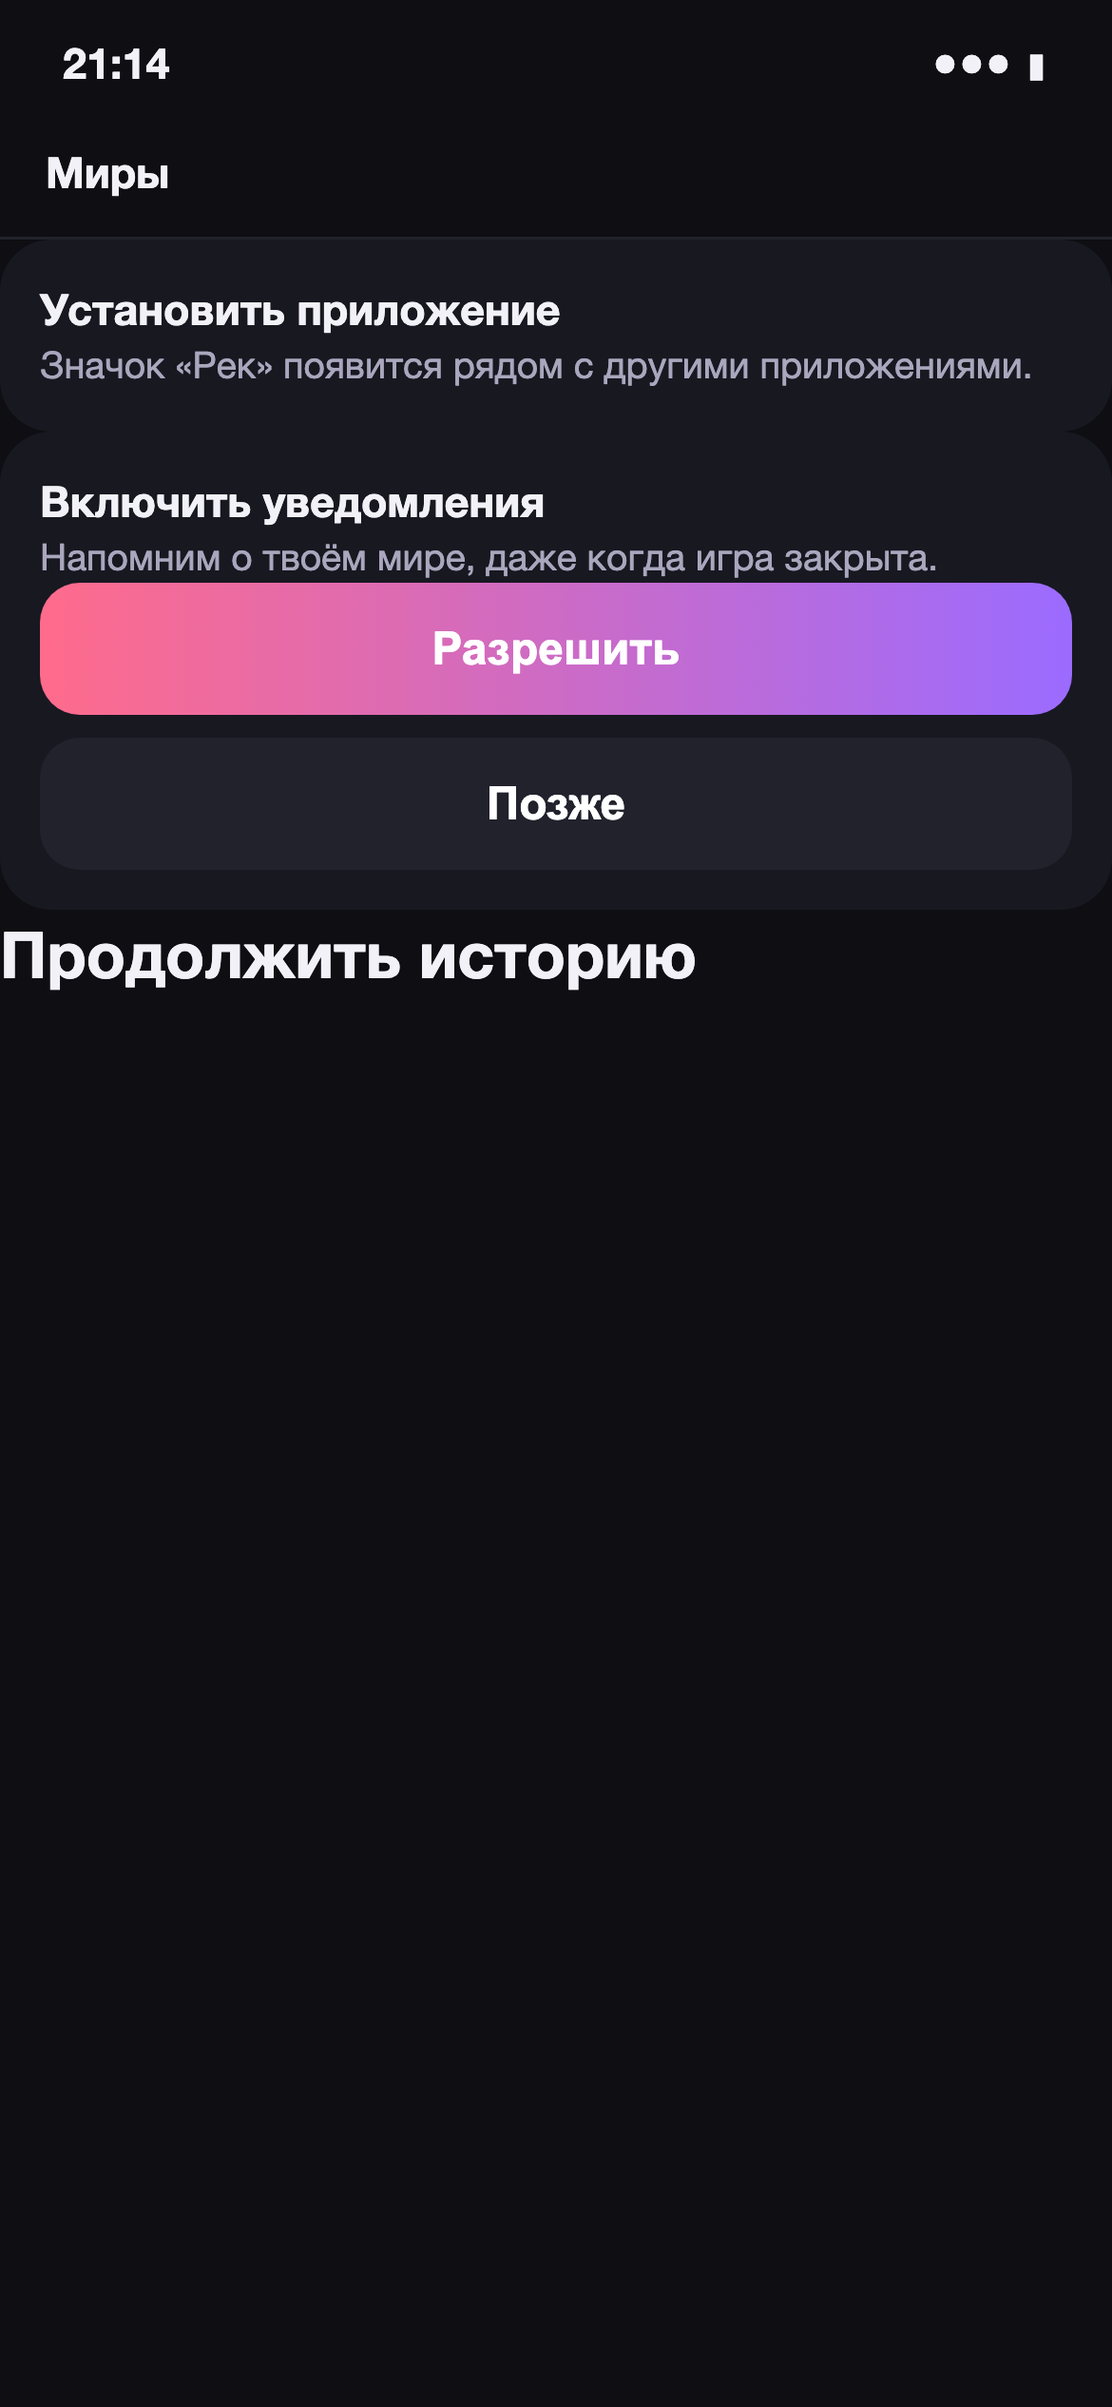
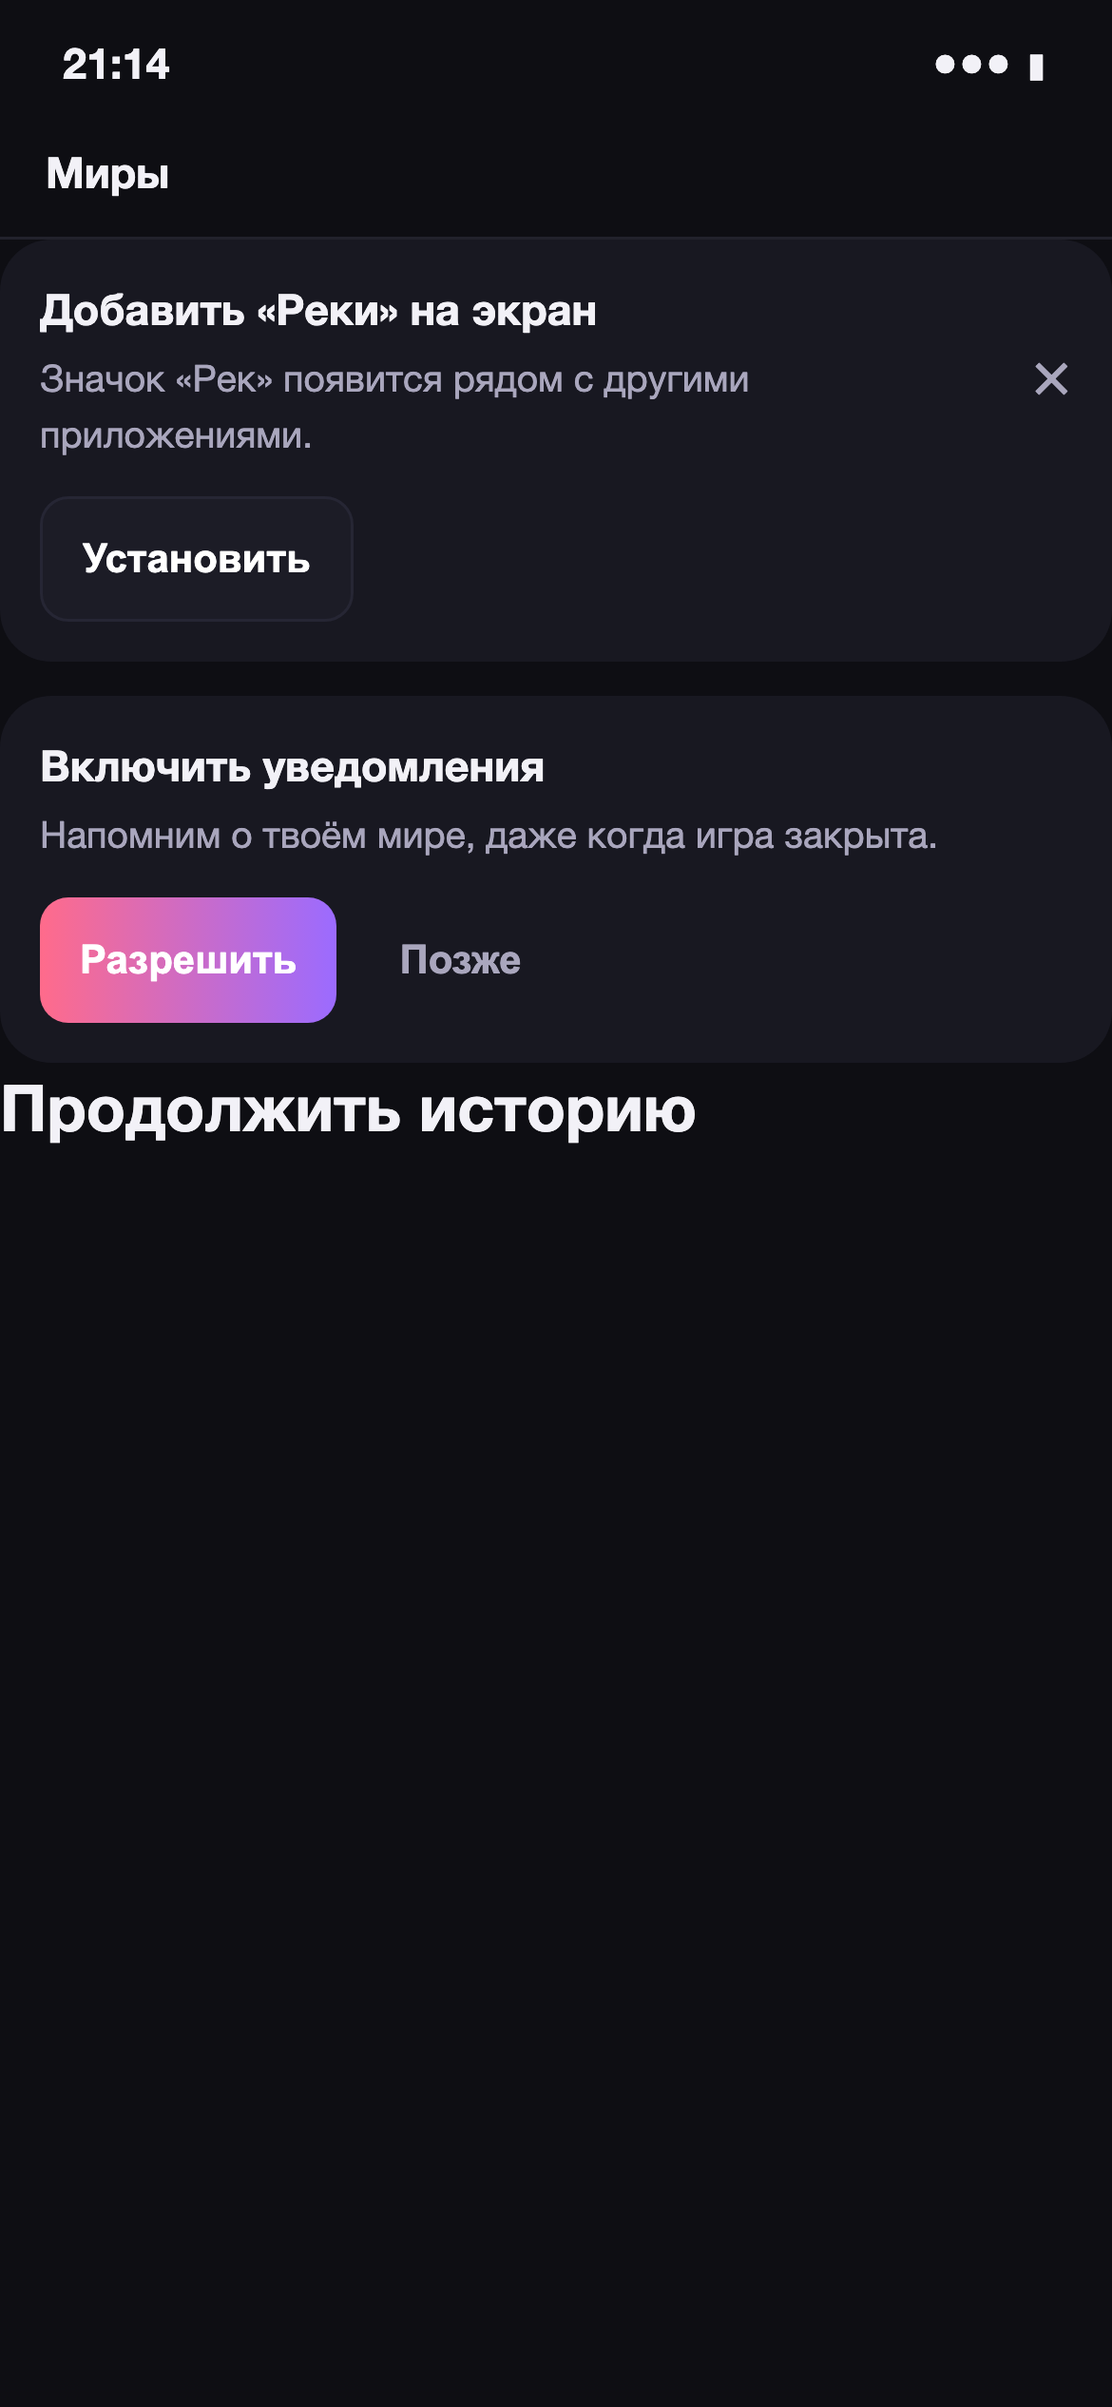
fix(frontend): compact browser offers and Telegram copy #291 (#296)
* fix(frontend): compact install and notification actions #291

* fix(frontend): shorten Telegram notification copy #291

---------

diff --git a/frontend/src/app/install/InstallApp.tsx b/frontend/src/app/install/InstallApp.tsx
@@ -53,7 +53,7 @@ export function InstallApp({entry}:{entry:'settings'|'banner'}){
  if(install.installed&&!preview)return null
  if(entry==='banner'&&install.dismissed&&!open&&!preview)return null
  return <>
-  {entry==='settings'?<button type="button" className="install-settings" onClick={()=>void start()} disabled={busy}><span>Установить приложение</span><span aria-hidden="true">›</span></button>:<Card style={{marginBottom:12}}>{preview&&<p className="small muted" role="status">DEV-просмотр. {install.installed?'Обычный показ скрыт: режим приложения.':install.dismissed?'Обычный показ скрыт: предложение уже закрывали.':'Карточка доступна и без предпросмотра.'}</p>}<div className="install-banner-heading"><img src="/android-chrome-192x192.png?v=wave-2" width={36} height={36} alt=""/><strong>Добавить «Реки» на экран</strong><button type="button" aria-label="Закрыть предложение установки" onClick={dismiss} disabled={busy}>×</button></div><p className="small muted">Значок «Рек» появится рядом с другими приложениями.</p><Button disabled={busy} onClick={()=>void start()}>{busy?'Открываем установку…':'Установить приложение'}</Button></Card>}
+  {entry==='settings'?<button type="button" className="install-settings" onClick={()=>void start()} disabled={busy}><span>Установить приложение</span><span aria-hidden="true">›</span></button>:<Card style={{marginBottom:12}}><div className="browser-offer install-offer">{preview&&<p className="small muted" role="status">DEV-просмотр. {install.installed?'Обычный показ скрыт: режим приложения.':install.dismissed?'Обычный показ скрыт: предложение уже закрывали.':'Карточка доступна и без предпросмотра.'}</p>}<div className="install-banner-heading"><img src="/android-chrome-192x192.png?v=wave-2" width={32} height={32} alt=""/><div className="browser-offer-copy"><strong>Добавить «Реки» на экран</strong><p className="small muted">Значок «Рек» появится рядом с другими приложениями.</p></div><button type="button" aria-label="Закрыть предложение установки" onClick={dismiss} disabled={busy}>×</button></div><div className="browser-offer-actions"><Button secondary disabled={busy} onClick={()=>void start()}>{busy?'Открываем…':'Установить'}</Button></div></div></Card>}
   {open&&createPortal(<Sheet onClose={close}><div ref={dialog} role="dialog" aria-modal="true" aria-labelledby={titleId} className="install-dialog">
    <h2 ref={heading} id={titleId} tabIndex={-1}>Установить «Реки»</h2>
    {embedded?<><p>Открой игру {ios||android?'в браузере телефона':'в обычном браузере'}.</p>{(ios||android)&&<p>Открой меню окна и выбери «Открыть в браузере».</p>}<p className="small muted">Скопируй адрес ниже, если такого пункта нет.</p></>:ios?<><ol className="install-steps"><li><span className="install-step-symbol"><InstallSymbol kind={yandex?'menu':'share'}/></span><span>{yandex?<>В меню Яндекс Браузера выбери <strong>«Добавить ярлык на телефон»</strong>.</>:<>В {chrome?'Chrome':safari?'Safari':'браузере'} нажми <strong>«Поделиться»</strong>.</>}</span></li><li><span className="install-step-symbol"><InstallSymbol kind="add"/></span><span>Выбери <strong>{yandex?'«Добавить на экран “Домой”»':chrome?'«Добавить на главный экран»':'«На экран “Домой”»'}</strong>.</span></li><li><span className="install-step-label" aria-hidden="true">Добавить</span><span>Нажми <strong>«Добавить»</strong>.</span></li></ol>{yandex&&<p className="small muted">Ярлык будет открывать игру в Яндекс Браузере.</p>}</>:android?<><ol className="install-steps"><li><span className="install-step-symbol"><InstallSymbol kind="menu"/></span><span>Открой меню {yandex?'Яндекс Браузера':chrome?'Chrome':'браузера'}.</span></li><li><span className="install-step-symbol"><InstallSymbol kind="add"/></span><span>{yandex?<>Выбери <strong>«Добавить ярлык на рабочий стол»</strong>, затем «Добавить».</>:<>Выбери <strong>«Установить приложение»</strong> или <strong>«Добавить на главный экран»</strong>.</>}</span></li></ol>{yandex&&<p className="small muted">Ярлык будет открывать игру в Яндекс Браузере.</p>}</>:safari?<p>В меню Safari выбери «Файл» → «Добавить в Dock».</p>:<p>В меню браузера выбери «Установить приложение». В Edge этот пункт находится в разделе «Приложения».</p>}

diff --git a/frontend/src/app/push/PushNotifications.tsx b/frontend/src/app/push/PushNotifications.tsx
@@ -93,20 +93,20 @@ export function PushNotifications({playerId, entry = 'settings'}: {playerId: str
 
   if (entry === 'banner') {
     if (support !== 'supported' || !key || dismissed || permission === 'denied' || saved) return null
-    return <Card style={{marginBottom: 12}}>
+    return <Card style={{marginBottom: 12}}><div className="browser-offer">
       <strong>Включить уведомления</strong>
       <p className="small muted">Напомним о твоём мире, даже когда игра закрыта.</p>
       {error && <p role="alert" className="small">{error}</p>}
-      <Button disabled={busy} onClick={() => void connect(true)}>{busy ? 'Подключаем…' : permission === 'granted' ? 'Подключить уведомления' : 'Разрешить'}</Button>
-      <Button secondary disabled={busy} onClick={dismiss} style={{marginTop: 8}}>Позже</Button>
-    </Card>
+      <div className="browser-offer-actions"><Button disabled={busy} onClick={() => void connect(true)}>{busy ? 'Подключаем…' : permission === 'granted' ? 'Подключить уведомления' : 'Разрешить'}</Button>
+      <button type="button" className="browser-offer-later" disabled={busy} onClick={dismiss}>Позже</button></div>
+    </div></Card>
   }
 
   return <>
     <button type="button" className="install-settings" onClick={() => setOpen(true)}><span>🔔 Уведомления</span><span aria-hidden="true">›</span></button>
     {open && createPortal(<Sheet onClose={() => setOpen(false)}><div ref={dialog} role="dialog" aria-modal="true" aria-labelledby={titleId} className="install-dialog" style={{overflowWrap: 'anywhere'}}>
       <h2 ref={heading} id={titleId} tabIndex={-1}>Уведомления</h2>
-      {support === 'telegram' ? <p>Напоминания будут приходить сообщением от бота в Telegram. Разрешение браузера здесь не нужно. Если бот заблокирован, сообщения не придут.</p>
+      {support === 'telegram' ? <p>Напоминания приходят в чат с ботом «Реки».</p>
         : support === 'embedded' ? <p>Для браузерных уведомлений открой «Реки» в обычном браузере.</p>
         : support === 'install' ? <><p>На iPhone и iPad уведомления доступны в установленном приложении на iOS 16.4 и новее. Добавь «Реки» на экран «Домой», открой с иконки и войди в аккаунт.</p><InstallApp entry="settings" /></>
         : support === 'unsupported' ? <p>Этот браузер не поддерживает уведомления для «Рек». Попробуй актуальную версию другого браузера. Подключение должно быть защищённым.</p>

diff --git a/frontend/src/app/install/install.css b/frontend/src/app/install/install.css
@@ -1,7 +1,5 @@
 .install-settings { display:flex; align-items:center; justify-content:space-between; width:100%; gap:12px; padding:12px 0; border:0; border-bottom:1px solid var(--line2); background:none; color:inherit; text-align:left; font:inherit; }
 .install-banner-heading { display:flex; align-items:center; gap:10px; }
-.install-banner-heading + p { margin:8px 0 16px; line-height:1.5; }
-.install-banner-heading strong { flex:1; }
 .install-banner-heading img { flex:none; border-radius:10px; }
 .install-banner-heading button { flex:none; width:44px; height:44px; border:0; background:none; color:var(--muted2); font-size:24px; }
 .install-dialog h2 { margin:0 0 16px; font-size:22px; }
@@ -15,3 +13,13 @@
 .install-step-symbol { display:grid; place-items:center; width:44px; height:44px; border:1px solid var(--line2); border-radius:10px; color:var(--text); background:var(--card2); }
 .install-step-label { color:#77b6ff; font-size:13px; font-weight:600; }
 .install-steps li > span:last-child { min-width:0; overflow-wrap:anywhere; }
+
+.browser-offer { min-width:0; overflow-wrap:anywhere; }
+.browser-offer-copy { flex:1; min-width:0; }
+.browser-offer p { margin-top:4px; line-height:1.5; }
+.browser-offer-actions { display:flex; align-items:center; flex-wrap:wrap; gap:8px; margin-top:12px; }
+.browser-offer-actions .btn { width:auto; max-width:100%; min-height:44px; padding:10px 14px; border-radius:10px; font-size:14px; font-weight:600; }
+.browser-offer-actions .btn.secondary { background:var(--card2); border:1px solid var(--line2); }
+.browser-offer-later { min-height:44px; padding:10px 12px; border:0; background:none; color:var(--muted); font-size:14px; }
+.install-offer .browser-offer-actions { padding-left:42px; }
+.browser-offer button:focus-visible { outline:2px solid var(--lilac); outline-offset:3px; }

diff --git a/docs/design/src/journey_v36.py b/docs/design/src/journey_v36.py
@@ -1,0 +1,3 @@
+# #291: browser setup stays secondary to the game.
+compact = '''<style>.offer-actions{display:flex;align-items:center;flex-wrap:wrap;gap:8px;margin-top:12px}.offer-actions button{box-sizing:border-box;width:auto;min-height:44px;padding:10px 14px;border-radius:10px;font-size:14px;font-weight:600}.offer-actions .quiet{background:#1C1C26;border:1px solid #262634}.offer-actions .later{background:none;border:0;color:#A9A6BD}.offer-copy{margin-top:4px;line-height:1.5}</style>'''
+S['01-3a_push_offer'] = P(compact + '<div class="top"><b>Миры</b></div><div class="pad"><div class="card" style="margin-bottom:12px"><div style="display:flex;align-items:center;gap:10px"><div style="flex:1"><b>Добавить «Реки» на экран</b><p class="small muted offer-copy">Значок «Рек» появится рядом с другими приложениями.</p></div><span class="muted" style="font-size:24px">×</span></div><div class="offer-actions"><button class="btn quiet">Установить</button></div></div><div class="card"><b>Включить уведомления</b><p class="small muted offer-copy">Напомним о твоём мире, даже когда игра закрыта.</p><div class="offer-actions"><button class="btn">Разрешить</button><button class="later">Позже</button></div></div><h2>Продолжить историю</h2></div>')

diff --git a/docs/design/src/build_journey.py b/docs/design/src/build_journey.py
@@ -342,6 +342,7 @@ exec(open(os.path.join(D, 'journey_v33.py'), encoding='utf-8').read())  # #236 V
 exec(open(os.path.join(D, 'journey_v34.py'), encoding='utf-8').read())  # #268 profile linking
 
 exec(open(os.path.join(D, 'journey_v35.py'), encoding='utf-8').read())  # #291 Web Push
+exec(open(os.path.join(D, 'journey_v36.py'), encoding='utf-8').read())  # #291 compact browser offers
 
 CH = os.environ.get('CHROME_BIN') or shutil.which('google-chrome') or shutil.which('chrome')
 if not CH and os.name == 'nt':

diff --git a/docs/screens/README.md b/docs/screens/README.md
@@ -65,7 +65,7 @@
 | [05-6_stats_card](05-6_stats_card.png) | Карточка «мои статы» для сторис |
 | [05-7_new_world](05-7_new_world.png) | Каталог пресетов, свои отдельные экземпляры, создание с нуля по постоянному флагу; без порога 10k и обещания общей аудитории |
 | [05-7b_own_world](05-7b_own_world.png) | Шаг 2/4: описание, правила и весь контент мира. Own начинается с пустого контента и обязательного правила 14+; AI-генерация правил не обещается |
-| [01-3a_push_offer](01-3a_push_offer.png) | Автоматическое предложение Web Push в каталоге после входа: «Разрешить» / «Позже», после карточки установки |
+| [01-3a_push_offer](01-3a_push_offer.png) | Компактные предложения установки и Web Push: кнопки по ширине текста, «Разрешить» / «Позже» в одной строке, установка без градиентного акцента |
 | [05-8a_push](05-8a_push.png) | Web Push: разрешение и состояние подписки через backend #293; при пустом ключе подключение недоступно |
 | [05-8_settings](05-8_settings.png) | Настройки: разрешение Web Push и состояние подписки (без тихих часов и выбора частоты), градус драмы (мягко / средне / остро / без хейта), голос канала, обращение, «Персонализация аватарки» с превью (выбор хранится на устройстве), Реки+, данные, удалить аккаунт с подтверждением |
 
